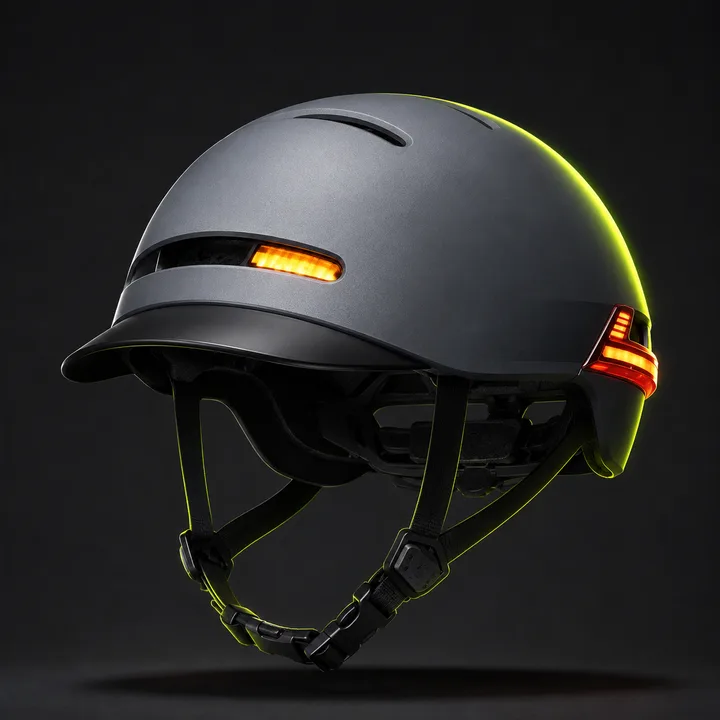
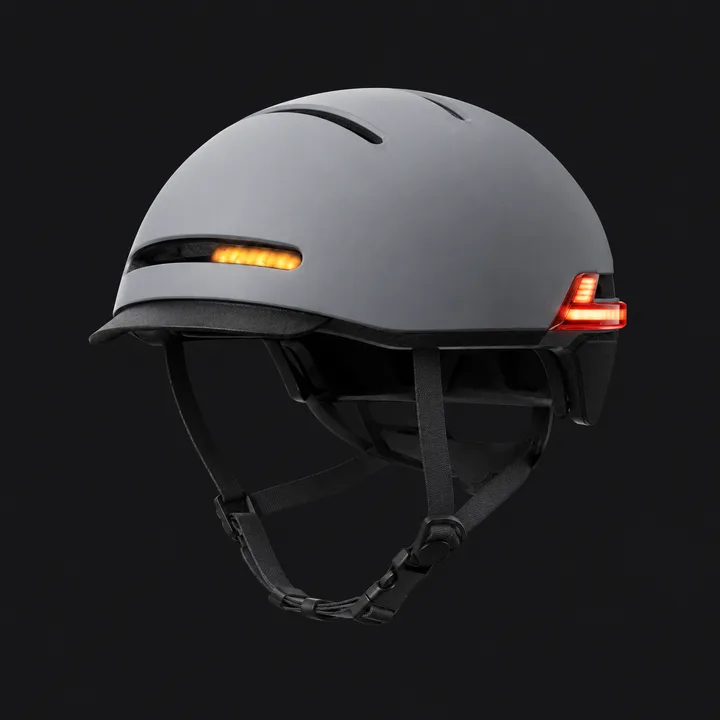
feat: 设备卡头盔图双图池——按 deviceId 稳定散列分配
新增滑雪盔演示图,更新城市盔;同一设备永远同一张图、不同设备尽量错开;
正式型号字段到位后改按型号映射。webp 各 ~13-15KB。

diff --git a/app/src/app/(tabs)/index.tsx b/app/src/app/(tabs)/index.tsx
@@ -41,6 +41,19 @@ function BatteryBar({ level }: { level: number | null }) {
   );
 }
 
+/** 头盔演示图池：设备暂无型号字段（待硬件定稿），按 deviceId 稳定散列分配——
+ *  同一设备永远同一张图，不同设备尽量错开。正式型号图到位后改为按型号映射。 */
+const HELMET_IMAGES = [
+  require('@/assets/images/helmet-hero.webp'),
+  require('@/assets/images/helmet-ski.webp'),
+] as const;
+
+function helmetImageFor(deviceId: string) {
+  let x = 0;
+  for (const c of deviceId) x = (x * 31 + c.charCodeAt(0)) >>> 0;
+  return HELMET_IMAGES[x % HELMET_IMAGES.length];
+}
+
 /** 信号强度文案（DeviceStatus.signalLevel：数值越大越强；口径待硬件定稿前按相对档显示） */
 function signalLabel(level: number | null): string {
   if (level === null) return '—';
@@ -86,9 +99,9 @@ function DeviceRow({ device }: { device: DevicePublic }) {
             },
           ]}>
           <View style={styles.cardTop}>
-            {/* 头盔产品图（演示素材；正式型号图待硬件出型号字段后按型号映射） */}
+            {/* 头盔产品图（演示素材，按设备稳定分配；正式型号图待硬件出型号字段后按型号映射） */}
             <Image
-              source={require('@/assets/images/helmet-hero.webp')}
+              source={helmetImageFor(device.deviceId)}
               style={styles.helmetImage}
               contentFit="cover"
             />
